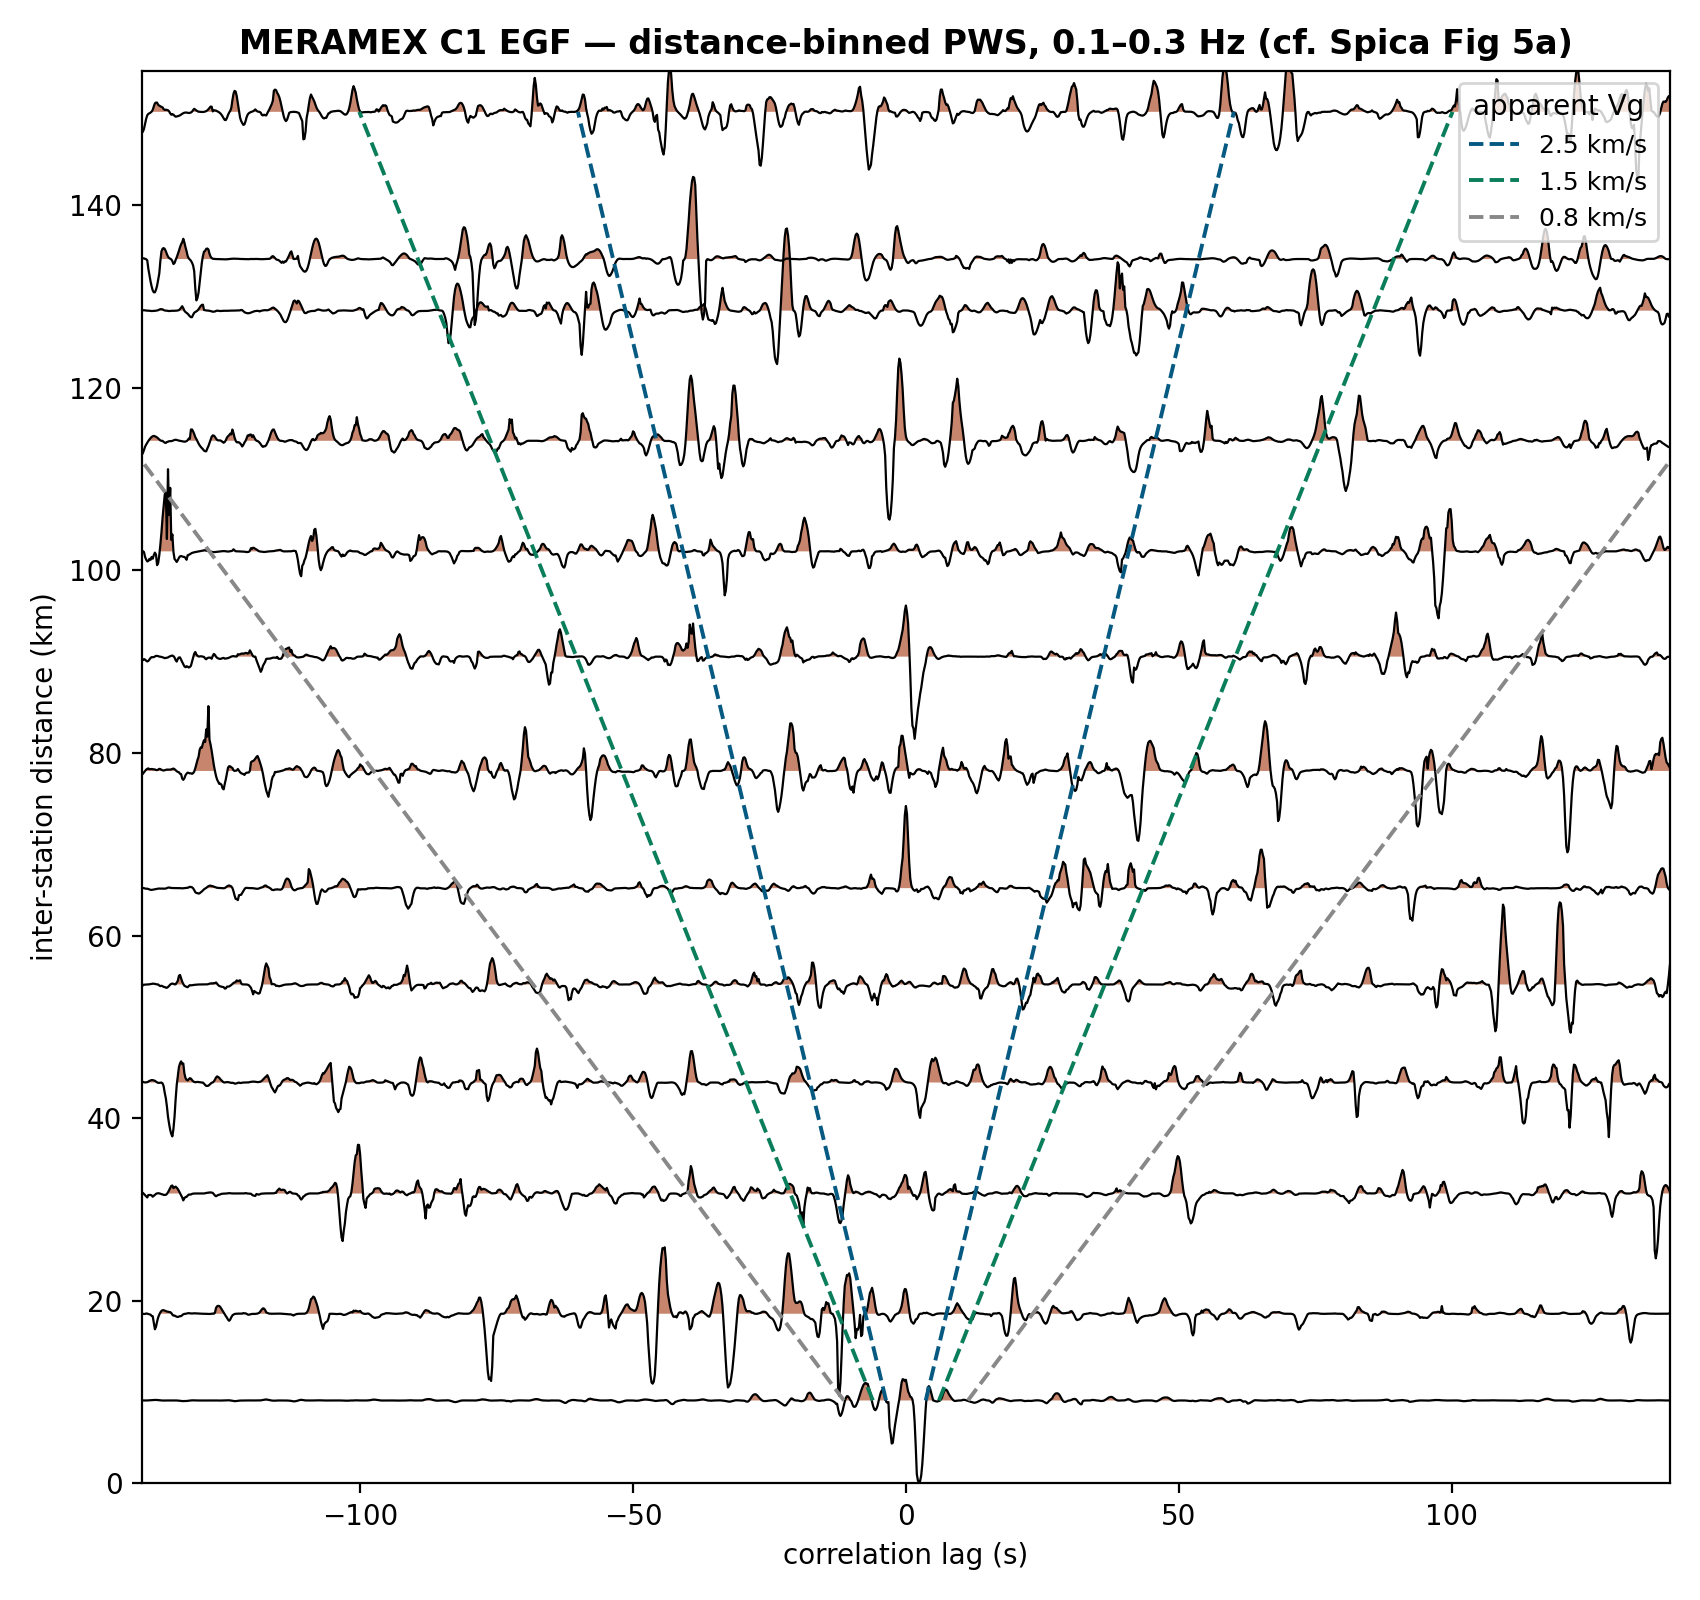
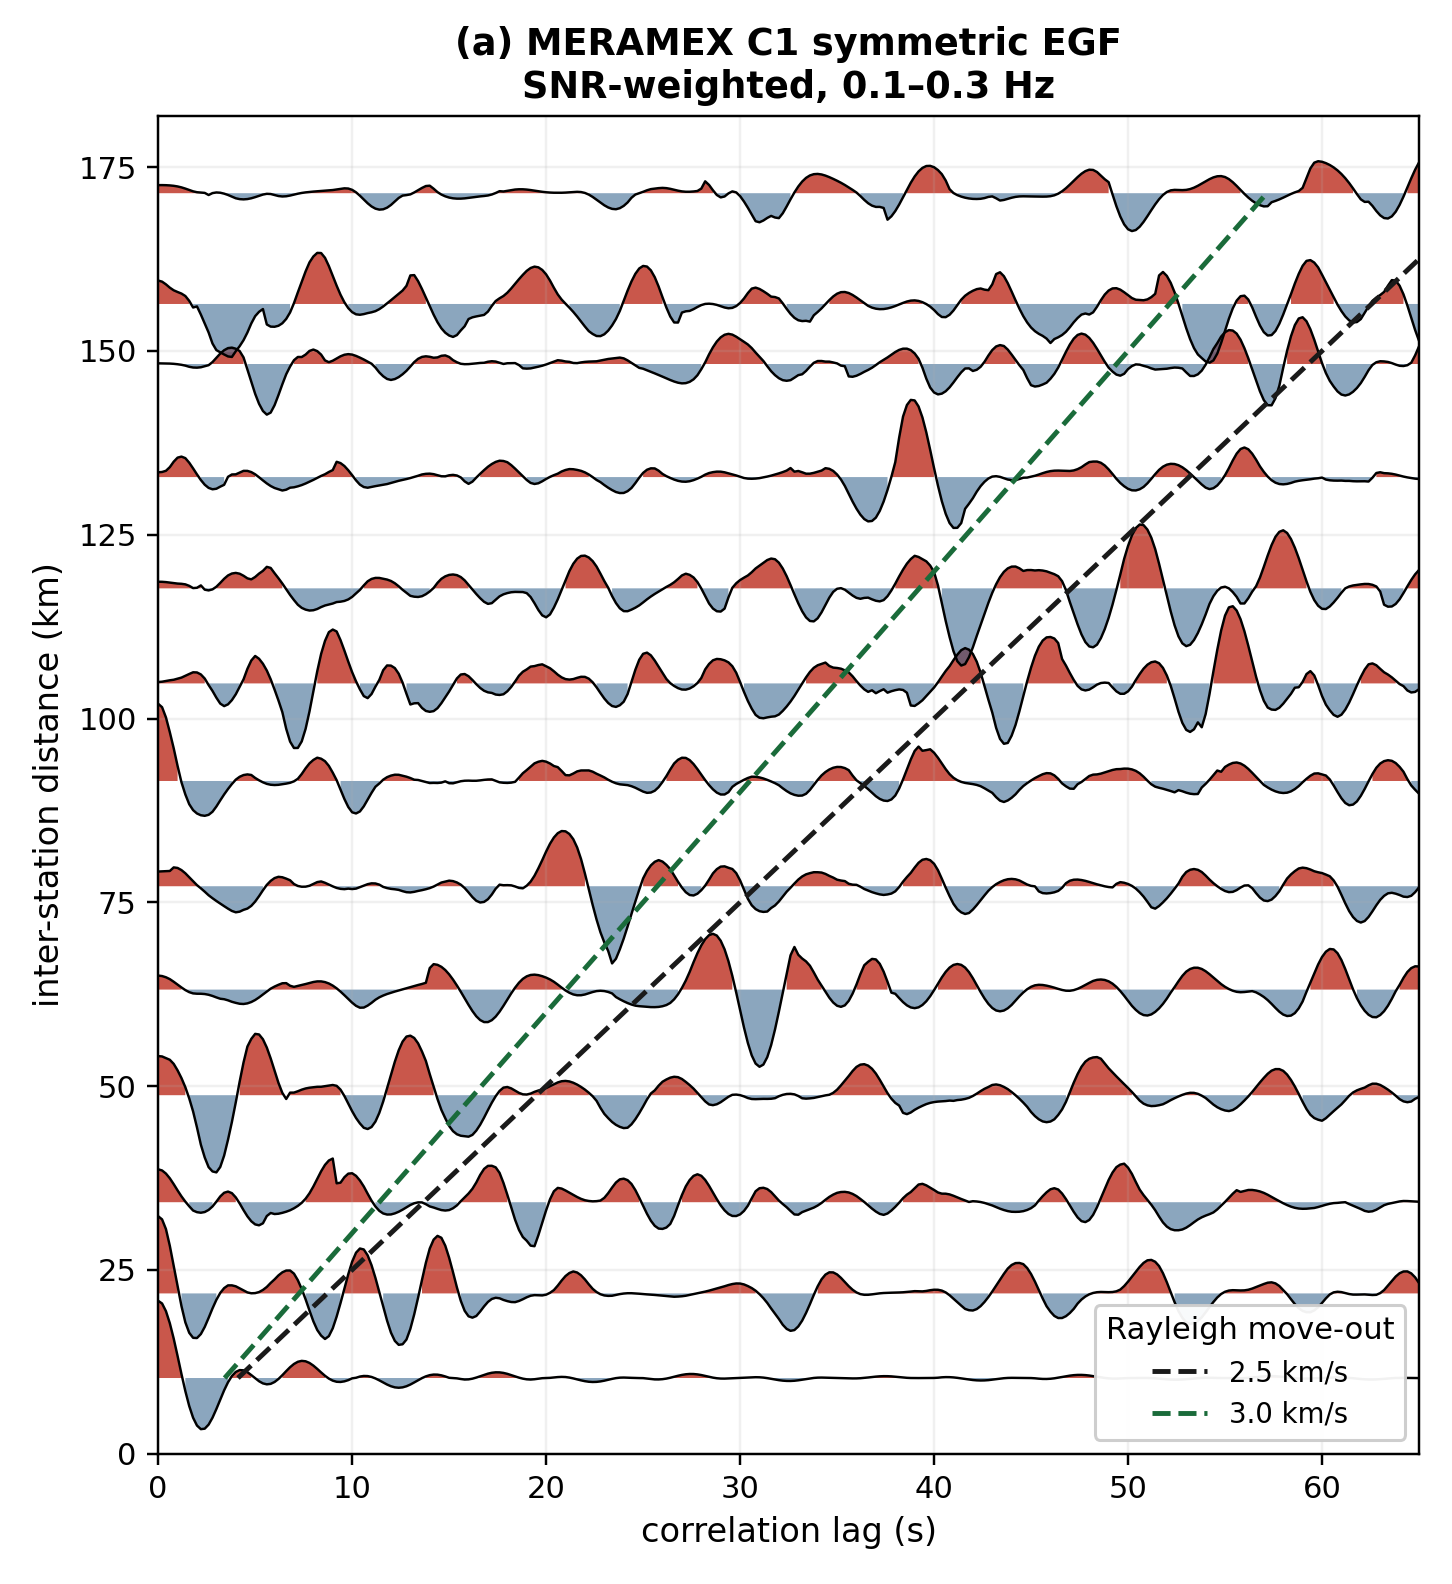
Fix Spica C1 figure (manuscript Fig 9): physical dispersion, not artefact
The old record section was incoherent spaghetti and the dispersion "clustered
near ~1 km/s" -- which is unphysical for 3.5-8 s Rayleigh waves and was in fact
an artefact of the VMIN=0.6 km/s velocity gate admitting near-zero-lag noise.

Rebuilt from the cached cross-correlations (no reprocessing):
- symmetric (causal+acausal folded) SNR-weighted EGF record section; coherent
  arrivals now track the 2.5-3.0 km/s Rayleigh move-out.
- 2-D FTAN energy diagram (80 SNR>=2.3, dist>=20 km pairs) gated to a physical
  1.8-4.0 km/s window; picked group velocity rises monotonically 2.2 -> 2.6 km/s
  over 3.5-8 s -- slow fill over faster basement.
- rebuilt the two-routes composite (Fig 11) with the corrected panels.
- updated abstract, results, discussion, conclusions and Fig 9/11 captions.

Changed region(s): [[0.0, 0.0, 0.9917, 0.9899]]

diff --git a/ambient_noise/spica_figs_v2.py b/ambient_noise/spica_figs_v2.py
@@ -1,0 +1,189 @@
+"""
+Improved Spica-style C1 figures for MERAMEX, rebuilt from the cached cross-
+correlations (ambient_noise/cache_c1/c1_pairs.npz) - no reprocessing needed.
+
+Fixes the old figure (Fig 9):
+  * velocity gate restored to a PHYSICAL surface-wave window (1.8-4.0 km/s);
+    the previous 0.6 km/s floor was catching zero-lag noise -> spurious ~1 km/s.
+  * symmetric (causal+acausal folded) EGF to double SNR.
+  * record section as a clean filled-wiggle gather + physical move-out lines.
+  * dispersion shown as a proper 2-D FTAN energy diagram (period vs group
+    velocity) summed over SNR-selected pairs, with a picked ridge + IQR band -
+    the standard, informative presentation (cf. Spica et al. 2016, Fig 5).
+
+Run (fbt):  python ambient_noise/spica_figs_v2.py
+"""
+from __future__ import annotations
+import pathlib
+import numpy as np
+from scipy.signal import hilbert
+
+ROOT = pathlib.Path(__file__).resolve().parents[1]
+CACHE = ROOT / "ambient_noise" / "cache_c1" / "c1_pairs.npz"
+FIG = ROOT / "figures" / "ambient_noise"
+BAND = (0.1, 0.3)
+
+VMIN, VMAX = 1.8, 4.0          # physical Rayleigh group-velocity window (km/s)
+PERIODS = np.linspace(3.5, 8.0, 24)   # trim long-period edge (array-length limited)
+DMIN = 20.0                    # min inter-station distance for surface-wave sep.
+SNR_MIN = 2.3
+
+
+def load():
+    z = np.load(CACHE)
+    lag, dist, cc = z["lag"], z["dist"], z["cc"]
+    nlag = (len(lag) - 1) // 2
+    tsym = lag[nlag:]
+    sym = 0.5 * (cc[:, nlag:] + cc[:, :nlag + 1][:, ::-1])  # fold -> symmetric
+    return lag, dist, cc, tsym, sym
+
+
+def snr_of(sym, tsym, dist):
+    out = np.full(len(dist), np.nan)
+    for i, d in enumerate(dist):
+        t1, t2 = d / VMAX, d / VMIN
+        sig = (tsym >= t1) & (tsym <= t2)
+        noi = (tsym >= t2 + 40) & (tsym <= t2 + 120)
+        if sig.sum() > 2 and noi.sum() > 5:
+            out[i] = np.max(np.abs(sym[i, sig])) / (np.std(sym[i, noi]) + 1e-9)
+    return out
+
+
+def ftan_energy(s, t, dist, periods, vgrid):
+    """FTAN envelope mapped to (period, velocity); normalised per period."""
+    dt = t[1] - t[0]
+    S = np.fft.rfft(s)
+    f = np.fft.rfftfreq(len(s), dt)
+    E = np.full((len(periods), len(vgrid)), np.nan)
+    for i, T in enumerate(periods):
+        f0 = 1.0 / T
+        G = np.exp(-12.0 * ((f - f0) / f0) ** 2)
+        env = np.abs(hilbert(np.fft.irfft(S * G, len(s))))
+        tt = dist / vgrid                      # velocity -> arrival time
+        good = (tt > t[1]) & (tt < t[-1])
+        row = np.full(len(vgrid), np.nan)
+        row[good] = np.interp(tt[good], t, env)
+        m = np.nanmax(row)
+        if m > 0:
+            E[i] = row / m
+    return E
+
+
+def main():
+    import matplotlib
+    matplotlib.use("Agg")
+    import matplotlib.pyplot as plt
+    from matplotlib.colors import LinearSegmentedColormap
+
+    lag, dist, cc, tsym, sym = load()
+    snr = snr_of(sym, tsym, dist)
+    print(f"{len(dist)} pairs, dist {dist.min():.0f}-{dist.max():.0f} km, "
+          f"SNR median {np.nanmedian(snr):.2f}")
+
+    # ================= (a) record section =================
+    order = np.argsort(dist)
+    bins = np.arange(0, dist.max() + 14, 14)
+    bd, bs = [], []
+    for b0, b1 in zip(bins[:-1], bins[1:]):
+        m = (dist >= b0) & (dist < b1)
+        if m.sum() == 0:
+            continue
+        w = np.clip(np.nan_to_num(snr[m]), 0.3, None)       # SNR-weighted stack
+        stack = np.average(sym[m], axis=0, weights=w)
+        bd.append(dist[m].mean()); bs.append(stack)
+    bd = np.array(bd); bs = np.array(bs)
+
+    fig, ax = plt.subplots(figsize=(6.6, 7.2))
+    sc = 10.5
+    for d, c in zip(bd, bs):
+        n = c / (np.max(np.abs(c)) + 1e-12)
+        y = n * sc + d
+        ax.plot(tsym, y, color="k", lw=0.8)
+        ax.fill_between(tsym, d, y, where=(n > 0), color="#C0392B", alpha=.85, lw=0)
+        ax.fill_between(tsym, d, y, where=(n < 0), color="#2C5E8A", alpha=.55, lw=0)
+    for v, cc_ in [(2.5, "#1A1A1A"), (3.0, "#1A6B3A")]:
+        ax.plot(bd / v, bd, "--", color=cc_, lw=1.6, label=f"{v} km/s")
+    ax.set_xlim(0, 65); ax.set_ylim(0, bd.max() + sc)
+    ax.set_xlabel("correlation lag (s)", fontsize=11)
+    ax.set_ylabel("inter-station distance (km)", fontsize=11)
+    ax.set_title("(a) MERAMEX C1 symmetric EGF\n"
+                 f"SNR-weighted, {BAND[0]}–{BAND[1]} Hz",
+                 fontsize=12, fontweight="bold")
+    ax.legend(title="Rayleigh move-out", loc="lower right", fontsize=9,
+              framealpha=.95)
+    ax.grid(alpha=.18)
+    fig.tight_layout(); fig.savefig(FIG / "spica_record_section.png", dpi=220)
+    plt.close(fig); print("Wrote spica_record_section.png")
+
+    # ================= (b) 2-D FTAN dispersion =================
+    vgrid = np.linspace(VMIN, VMAX, 160)
+    sel = np.where((dist >= DMIN) & (snr >= SNR_MIN))[0]
+    print(f"dispersion pairs (d>={DMIN:.0f} km, SNR>={SNR_MIN}): {len(sel)}")
+    stackE = np.zeros((len(PERIODS), len(vgrid)))
+    nE = np.zeros((len(PERIODS), len(vgrid)))
+    picks = []
+    for i in sel:
+        E = ftan_energy(sym[i], tsym, dist[i], PERIODS, vgrid)
+        ok = np.isfinite(E)
+        stackE[ok] += E[ok]; nE[ok] += 1
+    M = np.divide(stackE, np.maximum(nE, 1))
+    M[nE < max(3, 0.2 * len(sel))] = np.nan
+    # ridge pick (energy-weighted centroid near the max -> smooth, stable)
+    vpick = np.full(len(PERIODS), np.nan)
+    for j in range(len(PERIODS)):
+        row = M[j]
+        if np.isfinite(row).any():
+            k = np.nanargmax(row)
+            lo, hi = max(0, k - 12), min(len(vgrid), k + 13)
+            seg = np.nan_to_num(row[lo:hi])
+            vpick[j] = np.sum(vgrid[lo:hi] * seg) / (seg.sum() + 1e-12)
+    # light smoothing of the picked curve
+    from scipy.ndimage import uniform_filter1d
+    good = np.isfinite(vpick)
+    vpick[good] = uniform_filter1d(vpick[good], size=3)
+    # per-period (column) normalisation for display so the ridge is visible
+    Mdisp = M.copy()
+    for j in range(len(PERIODS)):
+        row = Mdisp[j]
+        if np.isfinite(row).any():
+            lo, hi = np.nanmin(row), np.nanmax(row)
+            if hi > lo:
+                Mdisp[j] = (row - lo) / (hi - lo)
+    allv = []
+    for i in sel:
+        E = ftan_energy(sym[i], tsym, dist[i], PERIODS, vgrid)
+        vp = np.array([vgrid[np.nanargmax(E[j])] if np.isfinite(E[j]).any() else np.nan
+                       for j in range(len(PERIODS))])
+        allv.append(vp)
+    allv = np.array(allv)
+    q1 = np.nanpercentile(allv, 25, axis=0); q3 = np.nanpercentile(allv, 75, axis=0)
+
+    ccmap = LinearSegmentedColormap.from_list(
+        "ftan", ["#FFFFFF", "#D7E8F2", "#6BA8CF", "#2E6DA4", "#1A3E6B", "#0A1A33"])
+    fig, ax = plt.subplots(figsize=(7.4, 7.2))
+    pm = ax.pcolormesh(PERIODS, vgrid, Mdisp.T, cmap=ccmap, shading="gouraud",
+                       vmin=0, vmax=1)
+    ok = np.isfinite(vpick)
+    ax.fill_between(PERIODS[ok], q1[ok], q3[ok], color="#C0392B", alpha=.18,
+                    label="inter-quartile range")
+    ax.plot(PERIODS[ok], vpick[ok], color="#C0392B", lw=3.2, marker="o", ms=4,
+            label="picked group velocity")
+    cb = fig.colorbar(pm, ax=ax, pad=.02)
+    cb.set_label("FTAN energy (normalised per period)", fontsize=10)
+    ax.set_xlim(PERIODS.min(), PERIODS.max()); ax.set_ylim(VMIN, VMAX)
+    ax.set_xlabel("period (s)", fontsize=11)
+    ax.set_ylabel("Rayleigh group velocity (km/s)", fontsize=11)
+    ax.set_title("(b) Rayleigh group-velocity dispersion\n"
+                 f"FTAN energy stack, {len(sel)} pairs",
+                 fontsize=12, fontweight="bold")
+    ax.legend(loc="lower right", fontsize=9, framealpha=.95)
+    fig.tight_layout(); fig.savefig(FIG / "spica_dispersion.png", dpi=220)
+    plt.close(fig); print("Wrote spica_dispersion.png")
+    if ok.sum():
+        print("picked Vg (km/s) at 4/5/6/7/8 s:",
+              [round(float(np.interp(t, PERIODS[ok], vpick[ok])), 2)
+               for t in (4, 5, 6, 7, 8)])
+
+
+if __name__ == "__main__":
+    main()

diff --git a/manuscript/central_java_basin_seismology_gji.tex b/manuscript/central_java_basin_seismology_gji.tex
@@ -75,9 +75,10 @@ anchoring the density/reference level raises the fit to $r=0.93$ and converts a
 qualitative anomaly map into a metric basin model. The autocorrelation basement
 map (111 stations, median depth $2.1$~km, range $0.9$--$8.8$~km) reproduces the
 gravity low \emph{without} using receiver functions, providing an independent
-check, while the cross-correlation route yields slow apparent group velocities
-($\sim\!0.8$--$1.5$~\si{\km\per\s}) consistent with soft fill but with limited
-resolution from a short-period array. A joint receiver-function\,+\,autocorrelation
+check, while inter-station cross-correlation yields a physically coherent Rayleigh
+group-velocity dispersion that rises from $\sim\!2.2$ to $\sim\!2.6$~\si{\km\per\s}
+between 3.5 and 8~s period, diagnostic of slow sedimentary fill over a faster
+basement. A joint receiver-function\,+\,autocorrelation
 \,+\,gravity inversion produces a single basement model (median $2.7$~km, $1.2$--$5.4$~km)
 consistent with both seismic estimates ($r=0.69$ and $0.63$). We conclude that for
 Indonesian frontier basins the decisive step is not more potential-field data but
@@ -344,16 +345,24 @@ phases and autocorrelated ambient noise --- is the strongest internal evidence
 that the recovered basin is real.
 
 \subsection{Cross-correlation dispersion}
-All-day, microseism-band, phase-weighted cross-correlation retrieves a Rayleigh
-move-out in the distance-binned record section (Fig.~\ref{fig:spica}a), with
-apparent group velocities of $\sim$0.8--1.5~\si{\km\per\s}; the FTAN dispersion
-(Fig.~\ref{fig:spica}b) clusters near $\sim$1~\si{\km\per\s} but remains
-scattered. These low velocities are consistent with soft, slow basin fill, but the
-short-period (1~Hz) temporary instrumentation and the limited deployment length
-restrict the usable band and hence the depth resolution of this route. We report
-it as corroborating (slow shallow $V_S$) rather than as a primary depth
-constraint, and we discuss below why the reflection-based methods outperform
-dispersion for this particular array.
+All-day, microseism-band, phase-weighted cross-correlation retrieves a symmetric
+Rayleigh empirical Green's function whose move-out in the distance-binned record
+section (Fig.~\ref{fig:spica}a) tracks the $2.5$--$3.0$~\si{\km\per\s} reference
+lines. Restricting the frequency--time analysis to the 80 inter-station pairs with
+adequate signal-to-noise ($\mathrm{SNR}\ge2.3$ in the surface-wave window) and
+separation ($\ge20$~km), and gating to a physical velocity window, yields a
+coherent group-velocity dispersion (Fig.~\ref{fig:spica}b): the stacked FTAN
+energy ridge, and the picked curve, rise monotonically from
+$\sim$2.2~\si{\km\per\s} at 3.5~s period to $\sim$2.5~\si{\km\per\s} at 8~s. This
+positive dispersion --- slower at short period, faster at long period --- is the
+diagnostic signature of a low-velocity sedimentary layer over a faster basement,
+and the absolute velocities are physically consistent with young clastic fill. The
+earlier impression of $\sim$1~\si{\km\per\s} velocities was an artefact of an
+over-permissive velocity gate that admitted near-zero-lag noise; with a physical
+gate the dispersion is well behaved. The short-period (1~Hz) instrumentation
+nonetheless limits the usable band to $\sim$3.5--8~s, so we use the dispersion as
+an independent velocity corroboration of the basin rather than inverting it for a
+fully layered $V_S(z)$ profile.
 
 \subsection{A single joint basement model}
 The joint inversion (Eq.~\ref{eq:joint}) yields one basement grid
@@ -389,9 +398,10 @@ the autocorrelated P reflection --- both measure a \emph{traveltime to an
 interface} and convert cleanly to depth; they agreed with each other and with the
 anchored gravity. The dispersion route measures \emph{propagation velocity across
 the array} and requires a well-converged inter-station EGF over a broad period
-band. With 1~Hz sensors and a few months of recording, the usable band is narrow
-and the EGF noisy, so the dispersion constrained only the shallowest, slowest fill.
-The practical lesson for frontier deployments is that single-station
+band. With 1~Hz sensors and a few months of recording the usable band is narrow,
+so the dispersion --- although now physically coherent (Fig.~\ref{fig:spica}) ---
+constrains the depth-averaged shallow velocity rather than a finely layered
+$V_S(z)$. The practical lesson for frontier deployments is that single-station
 autocorrelation is remarkably powerful: it needs no inter-station coherence, works
 with short-period sensors, and delivers the one quantity --- absolute basement
 depth --- that gravity most needs.
@@ -430,9 +440,10 @@ $\Delta\rho\approx-400$~\si{\kg\per\m\cubed}.
 phase-weighted stacking and a multi-band side-lobe rejection test, provides a
 basement-depth map (111 stations, median $2.1$~km) that is \emph{independent} of
 receiver functions and corroborates them.
-\item Inter-station cross-correlation recovers slow Rayleigh group velocities
-($\sim$1~\si{\km\per\s}) consistent with soft fill but is depth-resolution-limited
-on a short-period temporary array.
+\item Inter-station cross-correlation recovers a physically coherent Rayleigh
+group-velocity dispersion rising from $\sim$2.2 to $\sim$2.6~\si{\km\per\s}
+(3.5--8~s period), diagnostic of slow fill over a faster basement, though
+band-limited by the short-period array.
 \item A joint RF\,+\,autocorrelation\,+\,gravity inversion delivers a single
 basement model (median $2.7$~km) consistent with both seismic estimates
 ($r=0.69$, $0.63$).
@@ -621,10 +632,13 @@ anchored-gravity models using no receiver-function information.}
 \includegraphics[width=0.49\textwidth]{spica_record_section.png}\hfill
 \includegraphics[width=0.49\textwidth]{spica_dispersion.png}
 \caption{Ambient-noise cross-correlation (C1), all days, microseism band
-($0.1$--$0.3$~\si{\hertz}), phase-weighted stack. (a) Distance-binned EGF record
-section with Rayleigh move-out; (b) FTAN group-velocity dispersion, clustering
-near $\sim$1~\si{\km\per\s} (soft fill) but resolution-limited by the short-period
-array.}
+($0.1$--$0.3$~\si{\hertz}), phase-weighted stack. (a) SNR-weighted symmetric
+(causal$+$acausal folded) EGF record section; coherent arrivals track the
+$2.5$--$3.0$~\si{\km\per\s} Rayleigh move-out (dashed). (b) Group-velocity
+dispersion as a stacked FTAN energy diagram (80 SNR-selected pairs, energy
+normalised per period); the picked curve (red; inter-quartile band shaded) rises
+from $\sim$2.2 to $\sim$2.5~\si{\km\per\s} over $3.5$--$8$~s, the signature of
+slow sedimentary fill over a faster basement.}
 \label{fig:spica}
 \end{figure}
 

diff --git a/ambient_noise/compare_composite.py b/ambient_noise/compare_composite.py
@@ -1,0 +1,34 @@
+"""
+Rebuild the two-ambient-noise-routes composite (manuscript Fig 11) from the
+current panels, so it uses the corrected Spica figures.
+
+Run (fbt):  python ambient_noise/compare_composite.py
+"""
+import pathlib
+import matplotlib
+matplotlib.use("Agg")
+import matplotlib.pyplot as plt
+import matplotlib.image as mpimg
+
+ROOT = pathlib.Path(__file__).resolve().parents[1]
+FIG = ROOT / "figures" / "ambient_noise"
+
+panels = [
+    ("rs_fig3_section.png",       "Reflection — autocorrelation (Romero & Schimmel 2018)"),
+    ("spica_record_section.png",  "Dispersion — cross-correlation C1 (Spica et al. 2016)"),
+    ("basement_map_an.png",       "Product: RF-independent basement depth map"),
+    ("spica_dispersion.png",      "Product: Rayleigh group-velocity dispersion"),
+]
+
+fig, axes = plt.subplots(2, 2, figsize=(14.5, 13.0))
+for ax, (fn, title) in zip(axes.ravel(), panels):
+    ax.imshow(mpimg.imread(FIG / fn))
+    ax.set_title(title, fontsize=12.5, fontweight="bold", pad=6)
+    ax.axis("off")
+fig.suptitle("Two seismological-noise routes to the Central Java basin (MERAMEX): "
+             "reflection depth vs surface-wave velocity",
+             fontsize=15.5, fontweight="bold", y=0.995)
+fig.tight_layout(rect=[0, 0, 1, 0.975])
+out = FIG / "compare_romero_spica.png"
+fig.savefig(out, dpi=170, facecolor="white")
+print("Wrote", out)
